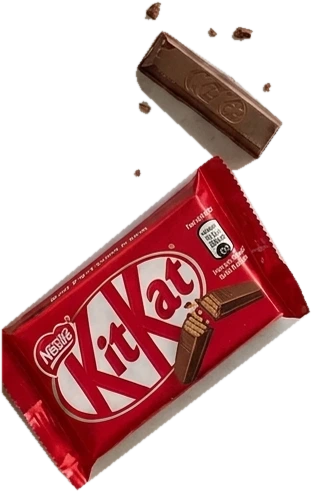
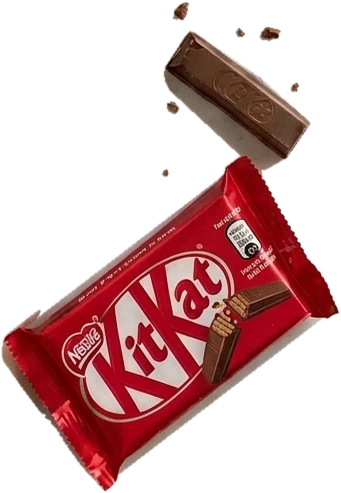
Giới tính: chưa chọn là kính trắng xám phát sáng, chọn mới đổi màu; KitKat cắt lại góc trái
Claude-Session: https://claude.ai/code/session_0176htKEH6Y7Juox9HqogLEH

diff --git a/src/components/GlassPopup/GlassPopup.css b/src/components/GlassPopup/GlassPopup.css
@@ -306,7 +306,12 @@
 .gp__area textarea { resize: none; line-height: 1.35; }
 .gp__area > svg { margin-top: 1px; }
 
-/* ---------- giới tính: 2 mảnh kính màu ---------- */
+/* ---------- giới tính: 2 mảnh kính ----------
+   Chưa chọn: cả 2 nút là kính TRẮNG XÁM phát sáng nhẹ. Chọn nút nào → nút đó mới chuyển sang màu
+   (Nữ hồng / Nam xanh), màu chuyển mượt nhờ 3 kênh màu đăng ký @property. */
+@property --tr { syntax: '<number>'; inherits: true; initial-value: 225; }
+@property --tg { syntax: '<number>'; inherits: true; initial-value: 228; }
+@property --tb { syntax: '<number>'; inherits: true; initial-value: 235; }
 .gp__gender {
   position: relative;
   display: grid;
@@ -314,10 +319,13 @@
   gap: 12px;
 }
 .gp__sex {
-  /* mặt kính trung tính như ô nhập; CHỈ vùng icon có màu, loang nhẹ sang phải */
-  --tint: 255, 110, 160;
-  --a: 0.72;
-  --edge: 0.55;
+  /* mặt kính trung tính như ô nhập; vùng icon loang màu (chưa chọn: trắng xám sáng) */
+  --tr: 225;
+  --tg: 228;
+  --tb: 235;
+  --tint: var(--tr), var(--tg), var(--tb);
+  --a: 0.42;
+  --edge: 0.6;
   position: relative;
   display: flex;
   align-items: center;
@@ -348,7 +356,8 @@
   -webkit-backdrop-filter: blur(1.5px) saturate(1.15);
   backdrop-filter: blur(1.5px) saturate(1.15);
   text-shadow: 0 1px 3px rgba(0, 0, 0, 0.5);
-  transition: transform 0.18s cubic-bezier(0.22, 1, 0.36, 1), box-shadow 0.3s ease, filter 0.2s ease, border-color 0.3s;
+  transition: transform 0.18s cubic-bezier(0.22, 1, 0.36, 1), box-shadow 0.3s ease, filter 0.2s ease, border-color 0.3s,
+    --tr 0.45s ease, --tg 0.45s ease, --tb 0.45s ease;
 }
 /* viền loang màu: đậm ở phía icon, tan dần thành viền kính trắng mờ bên phải */
 /* viền màu mềm quanh cả nút, đậm hơn ở phía icon */
@@ -381,10 +390,14 @@
     0 0 24px rgba(var(--tint), calc(var(--edge) * 0.2));
   transition: box-shadow 0.3s;
 }
-.gp__sex.is-nam { --tint: 80, 155, 235; --a: 0.68; }
-.gp__sex > svg { flex: none; width: 26px; height: 26px; stroke-width: 1.5; color: rgb(var(--tint)); }
-.gp__sex.is-nu > svg { color: #ff8ab8; }
-.gp__sex.is-nam > svg { color: #8cc4ff; }
+.gp__sex > svg { flex: none; width: 26px; height: 26px; stroke-width: 1.5; color: rgb(var(--tint)); transition: color 0.45s ease; }
+/* chưa chọn: icon trắng sáng */
+.gp__sex:not(.is-on) > svg { color: #f4f6fa; filter: drop-shadow(0 0 4px rgba(255, 255, 255, 0.55)); }
+/* đã chọn: mới đổi sang màu riêng */
+.gp__sex.is-nu.is-on { --tr: 255; --tg: 110; --tb: 160; }
+.gp__sex.is-nam.is-on { --tr: 80; --tg: 155; --tb: 235; }
+.gp__sex.is-nu.is-on > svg { color: #ff8ab8; }
+.gp__sex.is-nam.is-on > svg { color: #8cc4ff; }
 
 @media (hover: hover) {
   .gp__sex:hover { transform: translateY(-1px); --a: 0.8; --edge: 0.7; }

diff --git a/src/scenes/FemaleScene/femaleAssets.ts b/src/scenes/FemaleScene/femaleAssets.ts
@@ -37,7 +37,7 @@ export type Box = readonly [number, number, number, number]
 
 export const PLACE: Record<'bouquet' | 'choc' | 'petal1' | 'petal2' | 'petal3', Box> = {
   bouquet: [-150, 290, 450, 1236],
-  choc: [390, 850, 702, 1342], // như ảnh gốc C2 (trên mặt đá, dưới-phải), hạ nhẹ cho khỏi lẫn dưới phong bì
+  choc: [362, 850, 703, 1343], // như ảnh gốc C2 (trên mặt đá, dưới-phải), hạ nhẹ cho khỏi lẫn dưới phong bì
   petal1: [520, 300, 640, 409],
   petal2: [636, 430, 722, 560],
   petal3: [296, 1236, 392, 1344],
